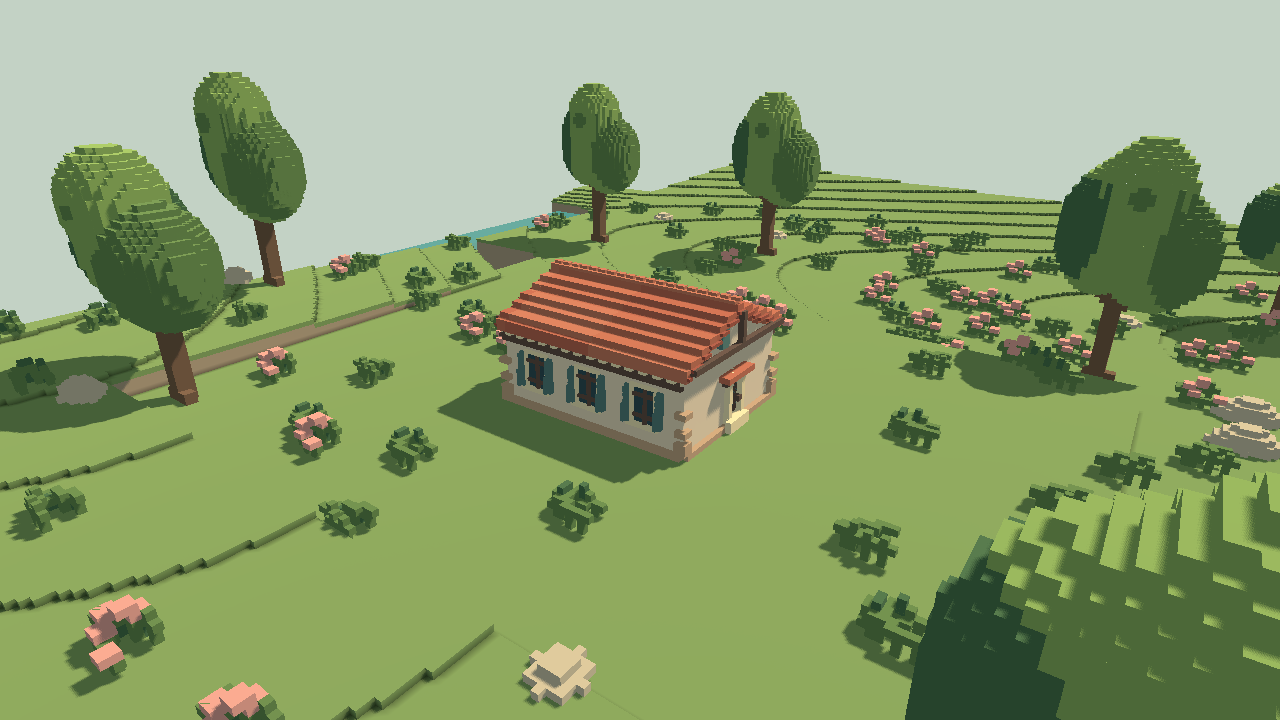
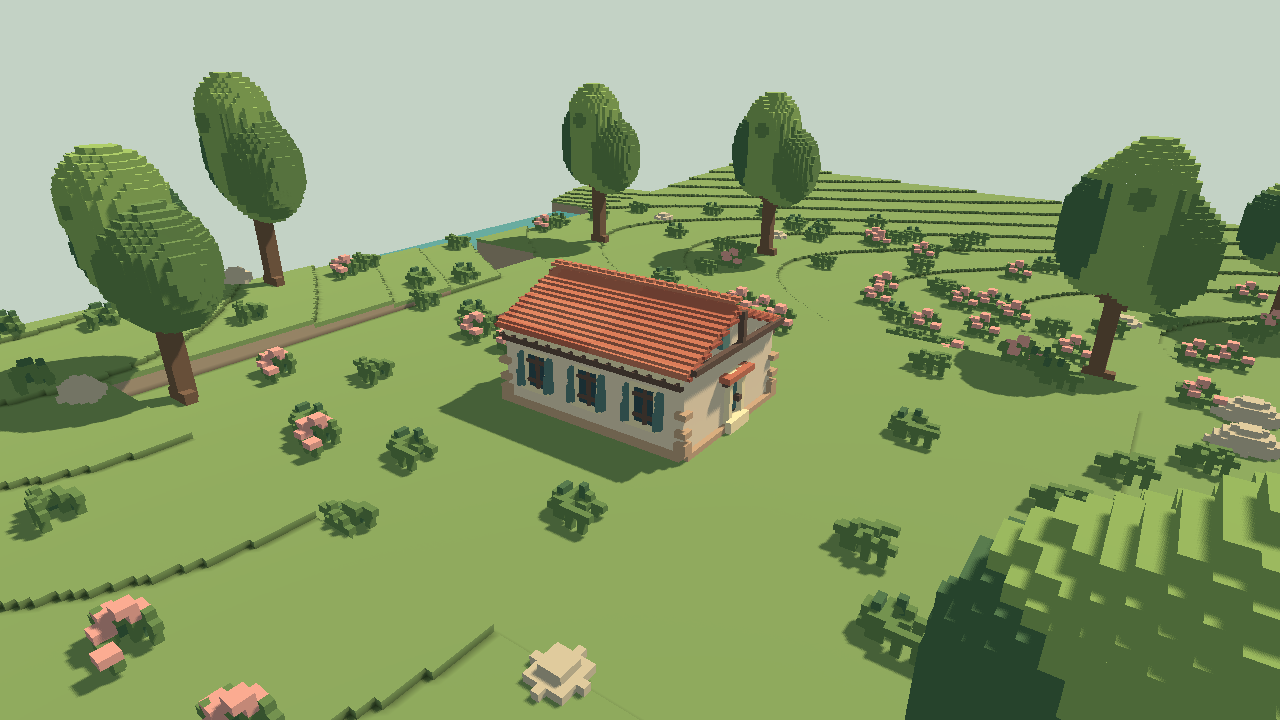
Refine cottage roof and round windows

Changed region(s): [[0.375, 0.3667, 0.625, 0.55]]

diff --git a/docs/design.md b/docs/design.md
@@ -609,7 +609,7 @@ This is an M1 review candidate, not accepted final art. The pad/channel remain g
 
 ## Coherent two-tier visible voxel scale
 
-The structural world-space visual unit is `VisualGrid.UNIT = 0.125` across native terrain, cottage shells, general vegetation, props and rocks. The player approved one deliberately finer, cottage-only decorative tier with a fixed `0.0625` cell edge for window joinery, shutters, trims, roof edges, flower boxes and flowers. This exception supplies readable architectural craft at miniature scale; it does not authorize finer terrain, finer structural building cells, or a second scale for unrelated asset families.
+The structural world-space visual unit is `VisualGrid.UNIT = 0.125` across native terrain, cottage shells and authoritative roof profiles, general vegetation, props and rocks. The player approved one deliberately finer, cottage-only presentation tier with a fixed `0.0625` cell edge for visible roof tiles and edges, window joinery, shutters, trims, flower boxes and flowers. This exception supplies readable architectural craft at miniature scale; it does not authorize finer terrain, finer structural building cells, or a second scale for unrelated asset families.
 
 Structural dimensions, resize increments and attachment anchors remain on the `0.125` grid. Decorative meshes are derived presentation around those authoritative anchors and may regenerate without rewriting saves. At both tiers, asset-local units and object transforms do not excuse a mismatch: measure after the complete transform, keep cells cubic, and change the number and arrangement of cells instead of stretching them into rectangular voxels.
 
@@ -620,7 +620,7 @@ Historical audit of the preceding M1 review build: tree crowns used a 0.24-world
 
 ## M1 physical-feedback iteration 2
 
-The next build uses `VisualGrid.UNIT = 0.125` for actual native terrain cells and structural asset steps. Cottage decorative details alone may use the approved `0.0625` half-cell tier described above. Native dimensions increase to 384 x 256 x 384 while retaining the 48 x 32 x 48 world. The player explicitly rejected keeping visibly coarse terrain while calling it merged fine cells. Legacy .5-grid checkpoints migrate by exact material-run expansion, retaining caves, edits and original files. Existing stepped landforms retain their shape; freshly generated terrain uses finer contour increments. This increases raw terrain payload to 72 MiB per generation and requires separate Thor performance review.
+The next build uses `VisualGrid.UNIT = 0.125` for actual native terrain cells and structural asset steps. Visible cottage roof tiles/edges and the approved cottage decorative families use the `0.0625` half-cell presentation tier described above, while the roof profile remains structurally authoritative at `0.125`. Native dimensions increase to 384 x 256 x 384 while retaining the 48 x 32 x 48 world. The player explicitly rejected keeping visibly coarse terrain while calling it merged fine cells. Legacy .5-grid checkpoints migrate by exact material-run expansion, retaining caves, edits and original files. Existing stepped landforms retain their shape; freshly generated terrain uses finer contour increments. This increases raw terrain payload to 72 MiB per generation and requires separate Thor performance review.
 
 Fresh cottages now use uniform .25 scale (4.5 x 1.75 x 3.5 before the roof); existing saved cottage transforms use the explicit undoable Miniature scale action. Trees have rebuilt overlapping crowns about 4.8–6 world units tall. Automatic window counts and spacing respond to wall length, yield to manual choices, and reserve suppressed footprints; optional shutters hide if crowded. Manual shutters and flower boxes remain editable/recoverable attachments.
 

diff --git a/reports/M1-cottage-half-cell-detail.md b/reports/M1-cottage-half-cell-detail.md
@@ -1,14 +1,14 @@
 # M1 cottage half-cell detail candidate
 
-This branch implements the player-approved `0.0625` cottage decorative tier while retaining `VisualGrid.UNIT = 0.125` for terrain, cottage structure, roof mass, resize increments and authoritative attachment anchors.
+This branch implements the player-approved `0.0625` cottage presentation tier, including visible roof tiles and edges, while retaining `VisualGrid.UNIT = 0.125` for terrain, cottage structure, authoritative roof profile, resize increments and attachment anchors.
 
-The derived renderer now gives existing windows finer mullion/transom choices, chamfered round surrounds, slatted or stepped-braced shutters, thinner cornices, regular eave pegs, articulated ridge and roof lips, built timber flower boxes, and small deterministic flower arrangements. Building seed plus stable detail identity selects restrained variations; unchanged recipes render identically and no save schema or gameplay behavior changed.
+The derived renderer now gives existing windows finer mullion/transom choices, enlarged chamfered round surrounds, slatted or stepped-braced shutters, thinner cornices, regular eave pegs, articulated ridge and roof lips, half-cell visible roof courses, built timber flower boxes, and small deterministic flower arrangements. Building seed plus stable detail identity selects restrained variations; unchanged recipes render identically and no save schema or gameplay behavior changed.
 
 Validation on pinned Godot `4.7.2.stable.official.ed1daf0bf`:
 
-- Focused headless detail geometry: 202 checks, 0 failures.
+- Focused headless detail geometry: 227 checks, 0 failures, including the enlarged `0.375 x 0.375` world-unit round pane on a default miniature cottage.
 - Full headless visual-grid contract: 1,173 checks, 0 failures. Native MultiMesh instances are explicitly unverified in headless mode.
-- Actual Vulkan Forward Mobile grid: 92,900 checks, 0 failures; 30,507 rendered instances and 798,848 vertices inspected.
+- Actual D3D12 Forward Mobile grid: 321,029 checks, 0 failures; 106,543 rendered instances and 2,623,712 vertices inspected across the seven-cottage scale/resize/duplication stress fixture.
 - Focused Forward Mobile capture harness: 26 checks, 0 failures, including exact repeated-image stability and unchanged authoritative records.
 - Existing building-world serialization, duplication, undo/redo and revision guards passed.
 - Existing cottage render stability passed 35 checks.
@@ -22,5 +22,6 @@ Review captures:
 - `reports/screenshots/m1-cottage-detail/03-detail-families.png`
 - `reports/screenshots/m1-cottage-detail/05-resized-details.png`
 - Same-view baseline: `reports/screenshots/m1-cottage-detail-baseline/03-detail-families.png`
+- Same-view pre-fine-roof baseline: `reports/screenshots/m1-cottage-detail-roof-baseline/03-detail-families.png`
 
-The large structural roof staircase remains intentionally on the `0.125` tier and still dominates the silhouette. Desktop RTX 3070 evidence is not Thor performance evidence; handheld performance and player visual approval remain open.
+The authoritative roof profile remains structural while its visible courses use the finer tier. Halving both roof tile axes substantially increases generated instances in the multi-cottage diagnostic fixture. Desktop RTX 3070 evidence is not Thor performance evidence; handheld performance and player visual approval remain open.

diff --git a/HANDOFF.md b/HANDOFF.md
@@ -62,7 +62,7 @@ The accepted build installs as `Hearthvale Test 44ebca5b`, package `org.hearthva
 
 1. Graphical UI polish: proper tool icons, cohesive HUD/panels, typography, controller glyphs and clear focus states. Preserve the accepted controller grammar, cottage-cycling/camera discoverability, single-screen operation and uncluttered miniature presentation. Start from a new branch off master.
 2. One-block overhang targeting and Slope performance/plane-guide clarity remain separate open issues; the camera, resize and house-action acceptance did not resolve them.
-3. Review and iterate the higher-detail cottage candidate, then continue with tree/river refinement. The current branch implements the player-approved cottage-only `0.0625` decorative grid for window joinery, shutters, trims, roof edges, flower boxes and flowers, with deterministic craft variations and new headless/actual-Mobile gates. Cottage structure, resize increments and attachment anchors remain at `0.125`; do not apply the finer tier to terrain or other asset families. See `reports/M1-cottage-half-cell-detail.md`. Desktop validation passed; player visual approval and Thor performance remain open. No M2, villagers or expanded building catalogue in this pass.
+3. Review and iterate the higher-detail cottage candidate, then continue with tree/river refinement. The current branch implements the player-approved cottage-only `0.0625` presentation grid for visible roof tiles/edges, window joinery, shutters, trims, flower boxes and flowers, with deterministic craft variations and new headless/actual-Mobile gates. Cottage structure, authoritative roof profile, resize increments and attachment anchors remain at `0.125`; do not apply the finer tier to terrain or other asset families. See `reports/M1-cottage-half-cell-detail.md`. Desktop validation passed; player visual approval and Thor performance remain open. No M2, villagers or expanded building catalogue in this pass.
 4. Stable securely retained Android signing and deliberate save migration before routine in-place updates.
 
 Pinned Godot 4.7.2.stable.official.ed1daf0bf, locked templates/native Voxel Tools, `0.125` structural visible grid plus the approved cottage-only `0.0625` decorative tier, miniature scale, world dimensions and schemas remain unchanged. Preserve native caves/overhangs, authoritative IDs/manual/suppressed/unsupported records, transactions/cancellation, player saves and old artifacts. Never weaken validation to produce a green result. Desktop headless/software-render checks are not handheld performance measurements. No local Godot execution or independent reviewer is claimed for this integration.

diff --git a/docs/references/README.md b/docs/references/README.md
@@ -12,7 +12,7 @@ Player clarification, 6 September 2026. These roles guide Hearthvale's art direc
 
 Target readable silhouettes, fine stepped details, coherent colours, inviting lighting, and restrained surface variation. Detailed does not mean oversized cubes, noisy textures, or photorealism. M0's terrain is much too coarse according to the player's Thor playtest; its block size is not the visual target.
 
-Keep decorative detail resolution independent of the terrain editing grid. A visible voxel need not be an independently simulated block; fine geometry can supply decorative detail while the native terrain remains volumetrically editable. Judge scale at the normal gameplay camera and in close inspection. Structural terrain, cottage shells, general vegetation and props use the `0.125` world-space unit. The player-approved exception is a cottage-only `0.0625` decorative tier for window joinery, shutters, trims, roof edges, flower boxes and flowers; structural edits and anchors remain at `0.125`.
+Keep decorative detail resolution independent of the terrain editing grid. A visible voxel need not be an independently simulated block; fine geometry can supply decorative detail while the native terrain remains volumetrically editable. Judge scale at the normal gameplay camera and in close inspection. Structural terrain, cottage shells and roof profiles, general vegetation and props use the `0.125` world-space unit. The player-approved exception is a cottage-only `0.0625` presentation tier for visible roof tiles/edges, window joinery, shutters, trims, flower boxes and flowers; structural edits, roof authority and anchors remain at `0.125`.
 
 During M1, present a small cottage-and-riverbank scene for player visual review before expanding the building catalogue. Review architecture and nearby decoration/planting against Town to City, landscape colour and vegetation against Station to Station, and building interaction against Tiny Glade. The original images below continue to guide terrain and geography. The player has separately authorized M1's editable cottage and continuous terrain sculpting; these visual references add no railways or economic management and change no M0 evidence.
 

diff --git a/tasks/M1-editable-cottage.md b/tasks/M1-editable-cottage.md
@@ -54,4 +54,4 @@ Capture the target at normal/near/far zoom and behind an occluding cottage, with
 
 ## Visual voxel consistency correction
 
-Normalize structural visual geometry to the `0.125` world-space unit across the cottage shell, vegetation, props and terrain presentation. Use the player-approved cottage-only `0.0625` decorative tier for window joinery, shutters, trims, roof edges, flower boxes and flowers. Preserve `0.125` structural dimensions, resize increments and attachment anchors, saved data, and independent native editing resolution. Validate declared cell size, cubic proportions and grid phase after transforms, resizing and duplication. Larger forms use additional cells, not stretched voxels. Include side-by-side visual evidence and meaningful world-space geometry checks before marking this requirement passed.
+Normalize structural visual geometry to the `0.125` world-space unit across the cottage shell and authoritative roof profile, vegetation, props and terrain presentation. Use the player-approved cottage-only `0.0625` presentation tier for visible roof tiles/edges, window joinery, shutters, trims, flower boxes and flowers. Preserve `0.125` structural dimensions, roof authority, resize increments and attachment anchors, saved data, and independent native editing resolution. Validate declared cell size, cubic proportions and grid phase after transforms, resizing and duplication. Larger forms use additional cells, not stretched voxels. Include side-by-side visual evidence and meaningful world-space geometry checks before marking this requirement passed.

diff --git a/docs/references/rulebook/README.md b/docs/references/rulebook/README.md
@@ -10,7 +10,7 @@ Use Town to City 01/02/03 and Station to Station 00/04/07 for architecture, plan
 
 ## Shared scale rule
 
-Hearthvale uses a `0.125` world-space visible structural unit across terrain, cottage shells, general vegetation and props. The player-approved cottage-only decorative tier is `0.0625` for window joinery, shutters, trims, roof edges, flower boxes and flowers; structural dimensions, edits and anchors stay at `0.125`. Larger objects contain more cubic cells and must not use enlarged or stretched voxels. Rendering and editing resolution remain separate. These screenshots do not establish an exact numeric unit or prove the source games use either tier.
+Hearthvale uses a `0.125` world-space visible structural unit across terrain, cottage shells and authoritative roof profiles, general vegetation and props. The player-approved cottage-only presentation tier is `0.0625` for visible roof tiles/edges, window joinery, shutters, trims, flower boxes and flowers; structural dimensions, roof authority, edits and anchors stay at `0.125`. Larger objects contain more cubic cells and must not use enlarged or stretched voxels. Rendering and editing resolution remain separate. These screenshots do not establish an exact numeric unit or prove the source games use either tier.
 
 ## Worker briefing use
 
